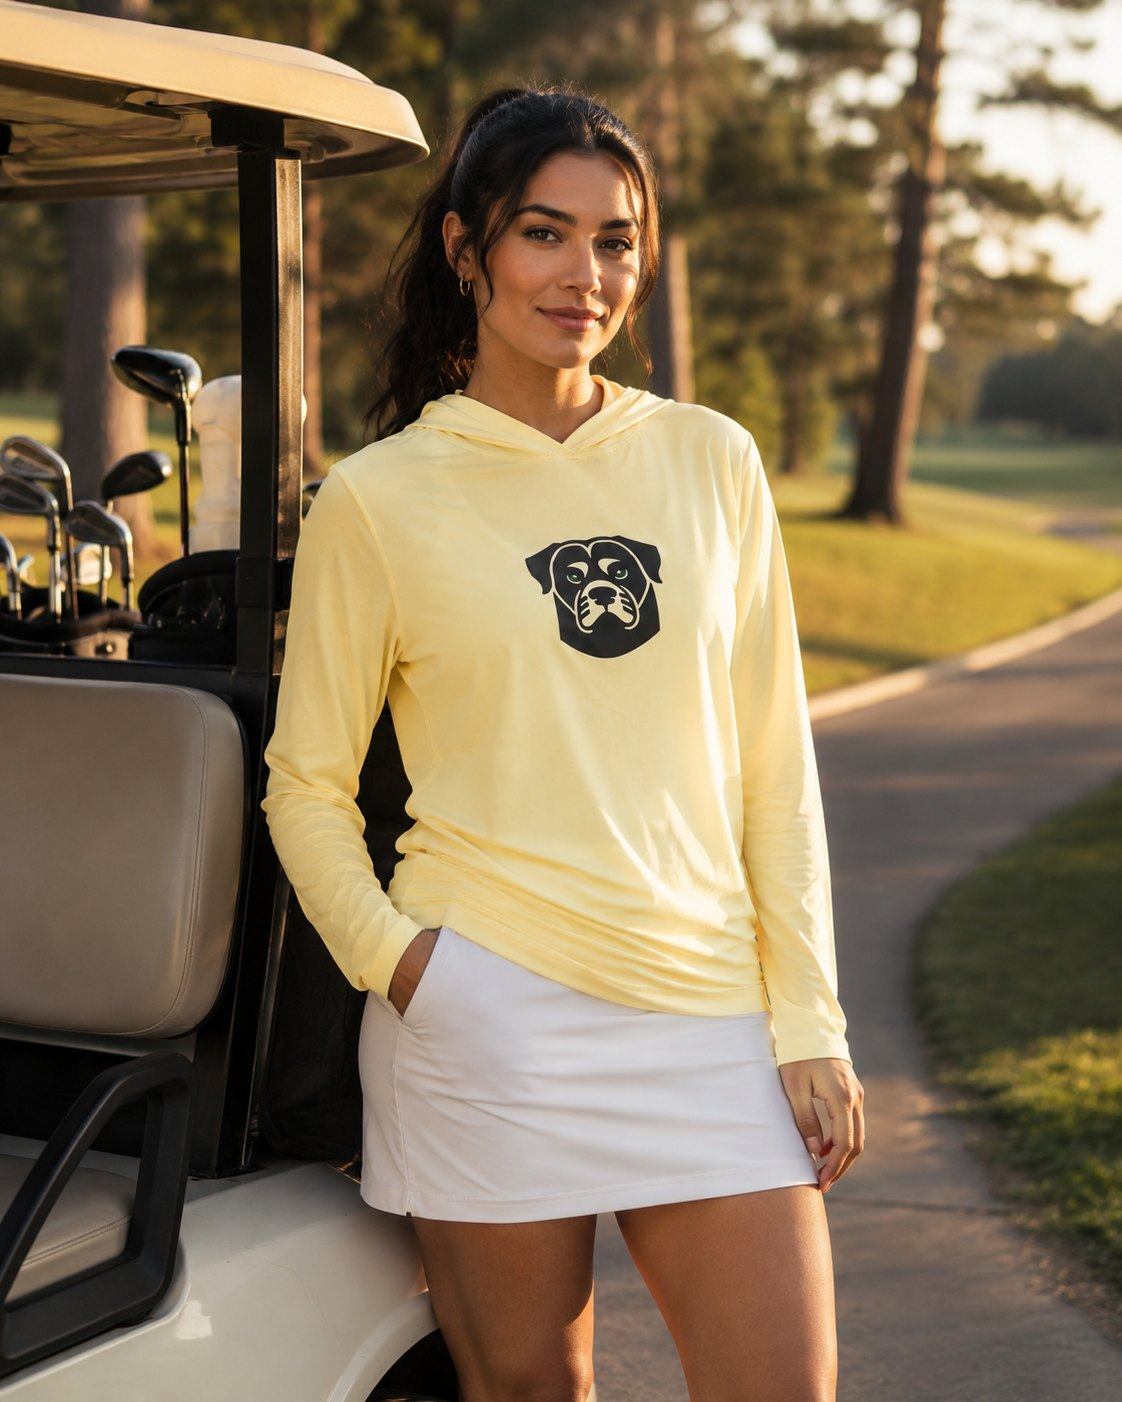
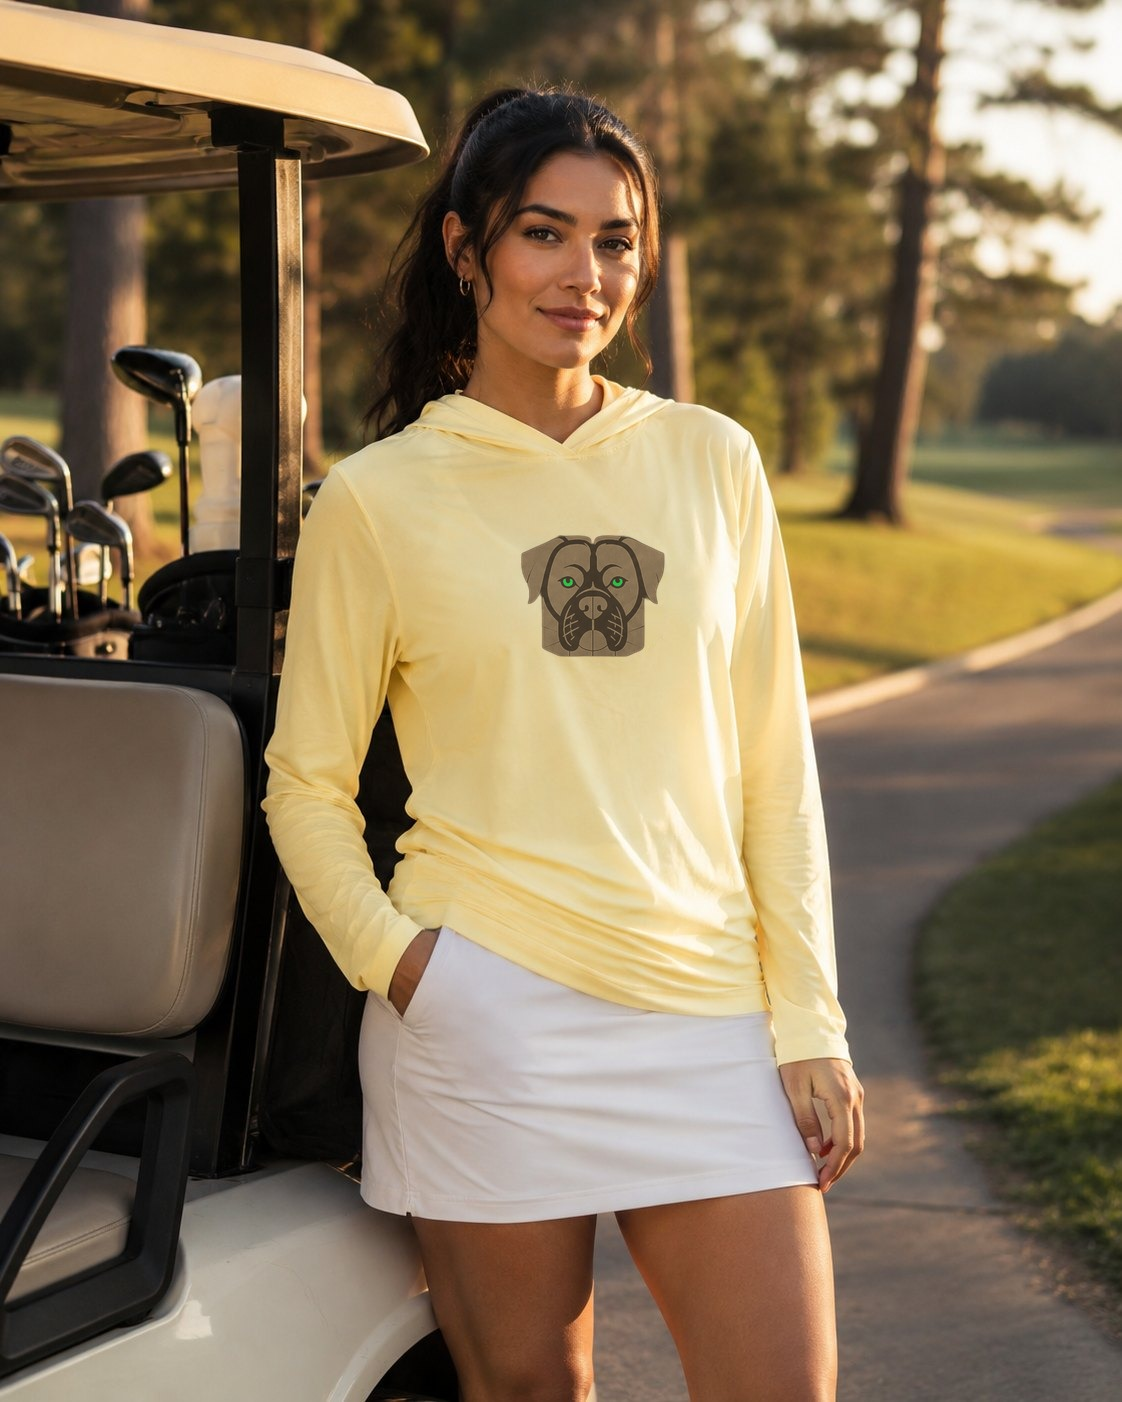
Cleanup orphaned legacy images + Peanut Cream dog to brown on-model + order-email reference
- Remove 68 unused legacy images (old flat-lays, color tiles, tech sketches, junior poster, superseded heroes/ghosts) — repo image count 105 to 37
- model-yellow-chest-woman: recolor the chest mark from black to the brown Rottweiler (green eyes kept), matching the brown ghost render
- Add branded order-confirmation email reference (public/email-preview.html + email-logo.png)

Changed region(s): [[0.4679, 0.368, 0.5927, 0.4907]]

diff --git a/public/email-preview.html b/public/email-preview.html
@@ -1,0 +1,123 @@
+<!DOCTYPE html>
+<html lang="en">
+<head>
+<meta charset="utf-8">
+<meta name="viewport" content="width=device-width, initial-scale=1.0">
+<title>DEVEN — Order Confirmation Preview</title>
+</head>
+<body style="margin:0;padding:0;background-color:#1a1a1a;font-family:Helvetica,Arial,sans-serif;">
+<table role="presentation" width="100%" cellpadding="0" cellspacing="0" style="background-color:#1a1a1a;padding:24px 0;">
+<tr><td align="center">
+
+<table role="presentation" width="600" cellpadding="0" cellspacing="0" style="width:600px;max-width:600px;background-color:#ffffff;border-radius:6px;overflow:hidden;">
+
+<!-- Header with circular site symbol -->
+<tr><td align="center" style="background-color:#0a0a0a;padding:38px 24px 32px 24px;">
+<img src="https://devenbrand.shop/images/email-logo.png" alt="DEVEN" width="100" height="100" style="display:block;width:100px;height:100px;margin:0 auto;border:0;">
+<div style="margin-top:18px;font-family:Georgia,'Times New Roman',serif;font-size:23px;letter-spacing:9px;color:#ffffff;">DEVEN</div>
+<div style="margin-top:8px;color:#c9a054;font-size:9px;letter-spacing:4px;text-transform:uppercase;font-weight:bold;">More Than a Game</div>
+</td></tr>
+
+<tr><td style="height:3px;background-color:#c9a054;line-height:3px;font-size:0;">&nbsp;</td></tr>
+
+<tr><td style="padding:42px 44px 8px 44px;">
+<div style="color:#c9a054;font-size:11px;letter-spacing:3px;text-transform:uppercase;font-weight:bold;">Order Confirmed</div>
+<h1 style="margin:12px 0 0 0;font-family:Georgia,'Times New Roman',serif;font-weight:normal;font-size:29px;line-height:1.25;color:#0a0a0a;">Thank you, Karim.</h1>
+<p style="margin:16px 0 0 0;font-size:15px;line-height:1.65;color:#555555;">We've received your order and it's now being prepared with care. A copy of this confirmation has been sent to <span style="color:#0a0a0a;">killersheart33@gmail.com</span>.</p>
+</td></tr>
+
+<tr><td style="padding:26px 44px 0 44px;">
+<table role="presentation" width="100%" cellpadding="0" cellspacing="0" style="border:1px solid #e5e0d8;border-radius:6px;">
+<tr>
+<td style="padding:16px 18px;border-right:1px solid #e5e0d8;" width="33%">
+<div style="font-size:9px;letter-spacing:1.5px;text-transform:uppercase;color:#999999;font-weight:bold;">Order No.</div>
+<div style="margin-top:5px;font-size:14px;color:#0a0a0a;font-weight:bold;">#DEV-100428</div>
+</td>
+<td style="padding:16px 18px;border-right:1px solid #e5e0d8;" width="33%">
+<div style="font-size:9px;letter-spacing:1.5px;text-transform:uppercase;color:#999999;font-weight:bold;">Order Date</div>
+<div style="margin-top:5px;font-size:14px;color:#0a0a0a;font-weight:bold;">June 2, 2026</div>
+</td>
+<td style="padding:16px 18px;" width="34%">
+<div style="font-size:9px;letter-spacing:1.5px;text-transform:uppercase;color:#999999;font-weight:bold;">Est. Delivery</div>
+<div style="margin-top:5px;font-size:14px;color:#0a0a0a;font-weight:bold;">Jun 12 – 16</div>
+</td>
+</tr>
+</table>
+</td></tr>
+
+<tr><td style="padding:32px 44px 0 44px;">
+<div style="font-size:11px;letter-spacing:2px;text-transform:uppercase;color:#0a0a0a;font-weight:bold;border-bottom:1px solid #e5e0d8;padding-bottom:12px;">Order Summary</div>
+<table role="presentation" width="100%" cellpadding="0" cellspacing="0" style="padding-top:18px;">
+<tr>
+<td valign="top" style="padding-bottom:6px;">
+<div style="font-family:Georgia,serif;font-size:17px;color:#0a0a0a;">Performance Hoodie</div>
+<div style="margin-top:5px;font-size:13px;color:#777777;">Silver Oak · Big Chest Logo · Size L</div>
+<div style="margin-top:2px;font-size:13px;color:#777777;">Quantity: 1</div>
+</td>
+<td valign="top" align="right" style="font-size:15px;color:#0a0a0a;white-space:nowrap;">$119.00</td>
+</tr>
+</table>
+</td></tr>
+
+<tr><td style="padding:22px 44px 0 44px;">
+<table role="presentation" width="100%" cellpadding="0" cellspacing="0" style="border-top:1px solid #e5e0d8;padding-top:16px;font-size:14px;color:#555555;">
+<tr><td style="padding:4px 0;">Subtotal</td><td align="right" style="padding:4px 0;">$119.00</td></tr>
+<tr><td style="padding:4px 0;color:#c9a054;">Discount (DEVEN10)</td><td align="right" style="padding:4px 0;color:#c9a054;">−$11.90</td></tr>
+<tr><td style="padding:4px 0;">Shipping</td><td align="right" style="padding:4px 0;">FREE</td></tr>
+<tr><td style="padding:4px 0;">Tax (MD 6%)</td><td align="right" style="padding:4px 0;">$6.43</td></tr>
+<tr><td style="padding:15px 0 0 0;border-top:2px solid #0a0a0a;font-size:16px;font-weight:bold;color:#0a0a0a;">Total Paid</td><td align="right" style="padding:15px 0 0 0;border-top:2px solid #0a0a0a;font-size:16px;font-weight:bold;color:#0a0a0a;">$113.53</td></tr>
+</table>
+</td></tr>
+
+<tr><td style="padding:32px 44px 0 44px;">
+<table role="presentation" width="100%" cellpadding="0" cellspacing="0">
+<tr>
+<td valign="top" width="55%" style="padding-right:12px;">
+<div style="font-size:11px;letter-spacing:2px;text-transform:uppercase;color:#0a0a0a;font-weight:bold;border-bottom:1px solid #e5e0d8;padding-bottom:10px;">Shipping To</div>
+<p style="margin:14px 0 0 0;font-size:14px;line-height:1.6;color:#555555;">
+Karim Sangid<br>
+1450 Chain Bridge Road, Suite 12<br>
+Fairfax, VA 22030
+</p>
+<p style="margin:8px 0 0 0;font-size:12px;color:#999999;">Billing address same as shipping.</p>
+</td>
+<td valign="top" width="45%" style="padding-left:12px;">
+<div style="font-size:11px;letter-spacing:2px;text-transform:uppercase;color:#0a0a0a;font-weight:bold;border-bottom:1px solid #e5e0d8;padding-bottom:10px;">Payment</div>
+<p style="margin:14px 0 0 0;font-size:14px;line-height:1.6;color:#555555;">
+Visa ending in 4242<br>
+Charged $113.53
+</p>
+</td>
+</tr>
+</table>
+</td></tr>
+
+<tr><td align="center" style="padding:36px 44px 6px 44px;">
+<a href="https://devenbrand.shop/shop" style="display:inline-block;background-color:#0a0a0a;color:#ffffff;text-decoration:none;font-size:12px;letter-spacing:2px;text-transform:uppercase;font-weight:bold;padding:16px 46px;">Visit the Store</a>
+</td></tr>
+
+<tr><td style="padding:26px 44px 0 44px;">
+<div style="background-color:#f5f0e8;border-radius:6px;padding:20px 22px;font-size:13px;line-height:1.65;color:#777777;">
+<strong style="color:#0a0a0a;">Need anything?</strong> Just reply to this email, or reach us at <a href="mailto:info@devenbrand.shop" style="color:#9a7a33;text-decoration:none;">info@devenbrand.shop</a> / (301) 701-6226.<br>
+<span style="display:inline-block;margin-top:8px;"><strong style="color:#0a0a0a;">Exchanges only.</strong> Unworn items with original tags may be exchanged within 30 days of delivery.</span>
+</div>
+</td></tr>
+
+<tr><td style="padding:34px 44px 40px 44px;">
+<table role="presentation" width="100%" cellpadding="0" cellspacing="0" style="border-top:1px solid #e5e0d8;padding-top:24px;">
+<tr><td align="center">
+<div style="font-family:Georgia,serif;font-size:17px;letter-spacing:6px;color:#0a0a0a;">DEVEN</div>
+<div style="margin-top:10px;font-size:12px;line-height:1.7;color:#999999;">
+1101 Wootton Parkway, Suite 400, Rockville, MD 20852<br>
+<a href="mailto:info@devenbrand.shop" style="color:#9a7a33;text-decoration:none;">info@devenbrand.shop</a> · (301) 701-6226 · <a href="https://instagram.com/shopdeven" style="color:#9a7a33;text-decoration:none;">@shopdeven</a>
+</div>
+<div style="margin-top:16px;font-size:10px;letter-spacing:1px;color:#bbbbbb;">© 2026 DEVEN. All Rights Reserved. · More Than a Game.</div>
+</td></tr>
+</table>
+</td></tr>
+
+</table>
+</td></tr>
+</table>
+</body>
+</html>

diff --git a/src/app/page.tsx b/src/app/page.tsx
@@ -30,16 +30,21 @@ const jsonLd = {
 // first and last differ too, so the seamless loop seam doesn't repeat a colour.
 // Each tile links to the shop variant it depicts (Pick Your Mood → buy).
 const COLOR_MARQUEE = [
-  { src: "/images/model-yellow-chest-woman.jpg", slug: "yellow-chest" }, //   yellow · woman
-  { src: "/images/marquee-navy-man.jpg", slug: "navy-chest" }, //            navy · man
-  { src: "/images/model-lblue-chest-man.jpg", slug: "light-blue-chest" }, //  blue · man
-  { src: "/images/marquee-yellow-man.jpg", slug: "yellow-chest" }, //         yellow · man
-  { src: "/images/lookbook-navy-woman.jpg", slug: "navy-chest" }, //          navy · woman
+  { src: "/images/model-yellow-chest-woman.jpg", slug: "yellow-chest" }, //       yellow · woman
+  { src: "/images/ghost-gray-chest-front.jpg", slug: "gray-chest" }, //           gray · ghost
+  { src: "/images/marquee-navy-man.jpg", slug: "navy-chest" }, //                 navy · man
+  { src: "/images/model-lblue-chest-man.jpg", slug: "light-blue-chest" }, //      blue · man
+  { src: "/images/ghost-yellow-chest-front.jpg", slug: "yellow-chest" }, //       yellow · ghost
+  { src: "/images/lookbook-navy-woman.jpg", slug: "navy-chest" }, //              navy · woman
+  { src: "/images/model-gray-madison-woman.jpg", slug: "gray-shoulder" }, //      gray · woman
+  { src: "/images/ghost-lightblue-madison-front.jpg", slug: "light-blue-shoulder" }, // blue · ghost
+  { src: "/images/marquee-navy-woman.jpg", slug: "navy-chest" }, //               navy · woman
+  { src: "/images/marquee-yellow-man.jpg", slug: "yellow-chest" }, //             yellow · man
+  { src: "/images/ghost-gray-madison-front.jpg", slug: "gray-shoulder" }, //      gray · ghost
+  { src: "/images/marquee-lblue-man.jpg", slug: "light-blue-chest" }, //          blue · man
+  { src: "/images/ghost-navy-chest-front.jpg", slug: "navy-chest" }, //           navy · ghost
   { src: "/images/model-lblue-madison-woman.jpg", slug: "light-blue-shoulder" }, // blue · woman
-  { src: "/images/model-gray-madison-woman.jpg", slug: "gray-shoulder" }, //  gray · woman
-  { src: "/images/marquee-navy-woman.jpg", slug: "navy-chest" }, //           navy · woman
-  { src: "/images/marquee-lblue-man.jpg", slug: "light-blue-chest" }, //      blue · man
-  { src: "/images/model-gray-madison-woman2.jpg", slug: "gray-shoulder" }, // gray · woman
+  { src: "/images/model-gray-madison-woman2.jpg", slug: "gray-shoulder" }, //     gray · woman
 ];
 
 // On-model lookbook — real campaign frames of the signature hoodie. Add entries
